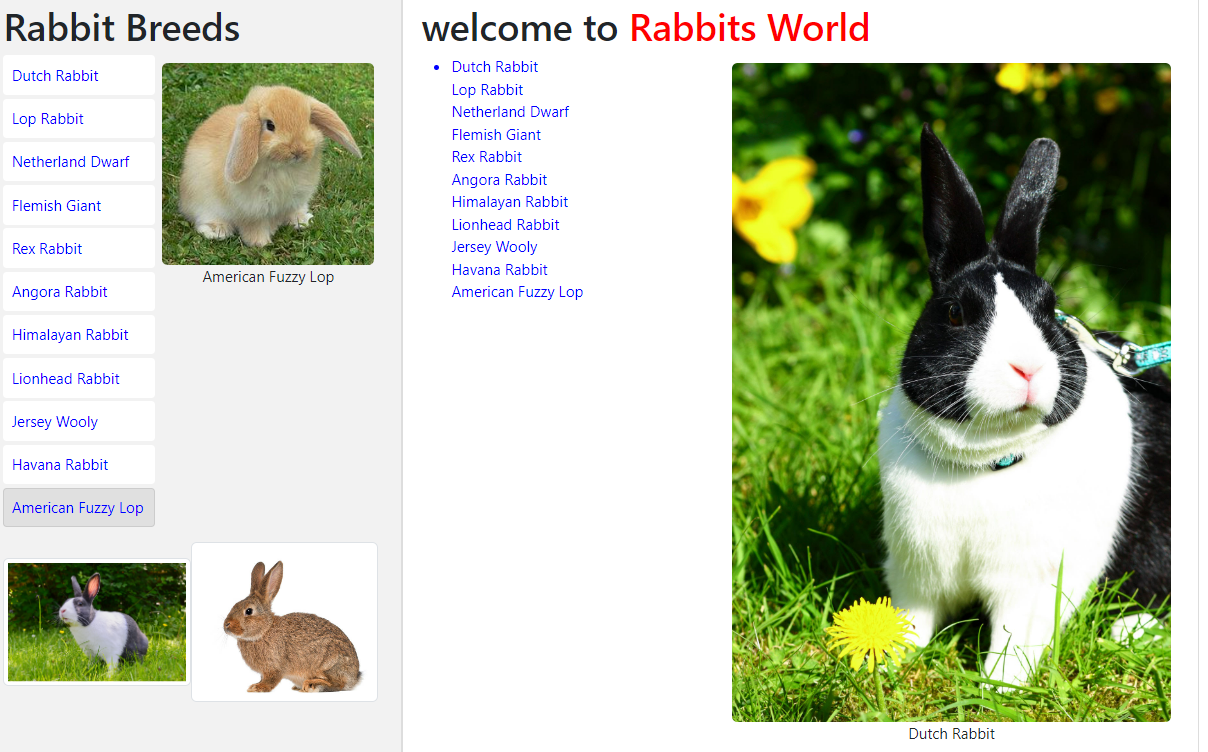
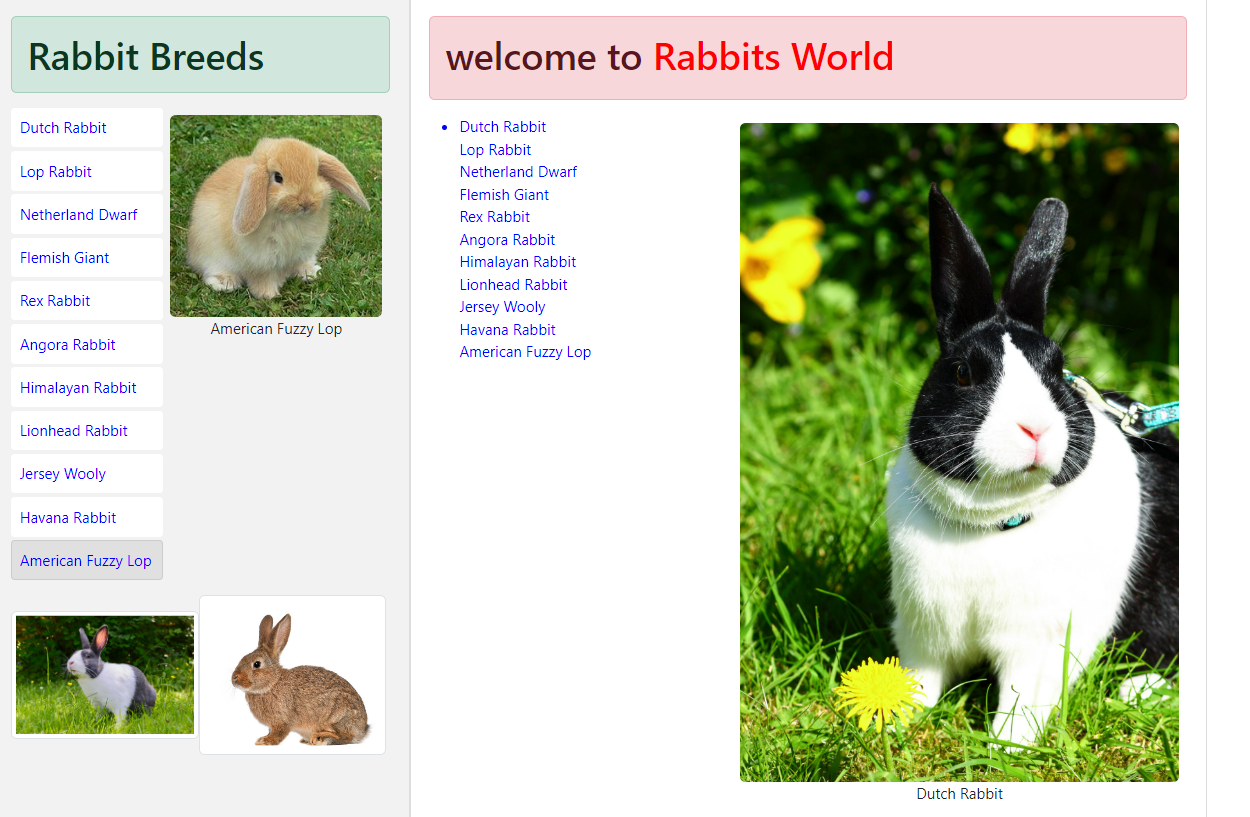
..

diff --git a/src/components/ListGroup.tsx b/src/components/ListGroup.tsx
@@ -14,7 +14,7 @@ function ListGroup({ rabbitBreeds, heading }: Props) {
 
   return (
     <>
-      <h1>{heading}</h1>
+      <h1 className="alert alert-success">{heading}</h1>
       <div style={{ display: "flex" }}>
         <div style={{ flex: 2 }}>
       

diff --git a/src/components/Alret.tsx b/src/components/Alret.tsx
@@ -7,7 +7,7 @@ interface Props {
 }
 
 const Alret = ({ children }: Props) => {
-  return <div>{children}</div>;
+  return <div className='alert alert-danger'>{children}</div>;
 };
 
 export default Alret;
